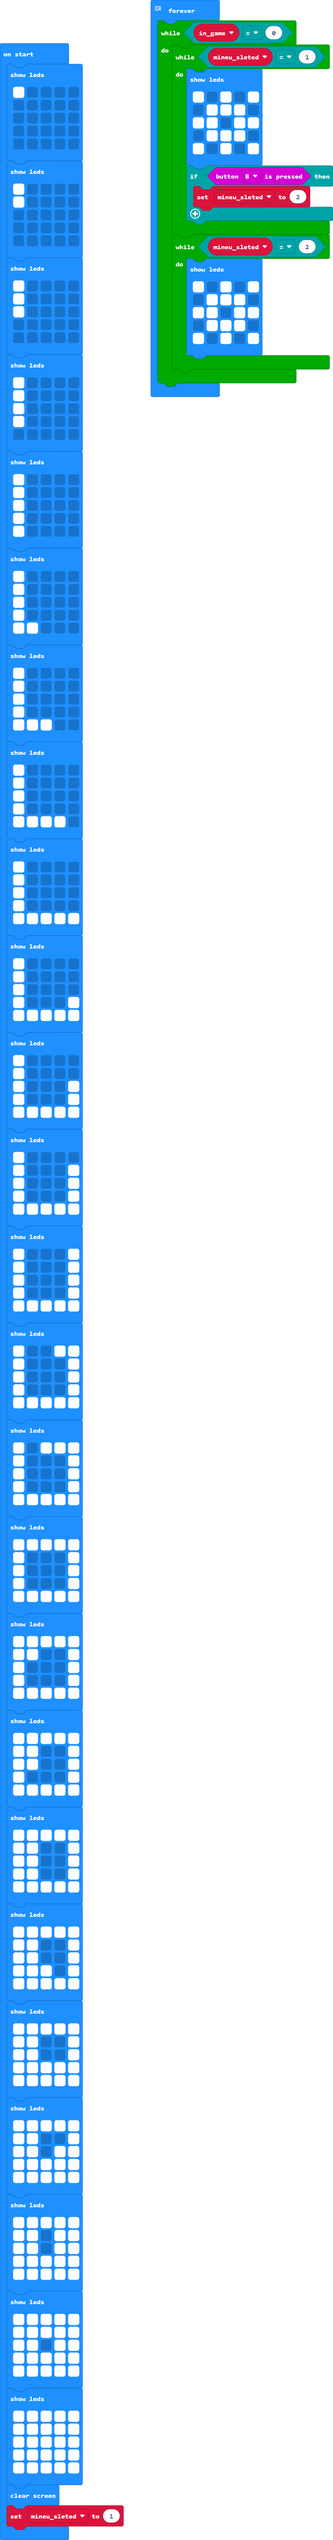
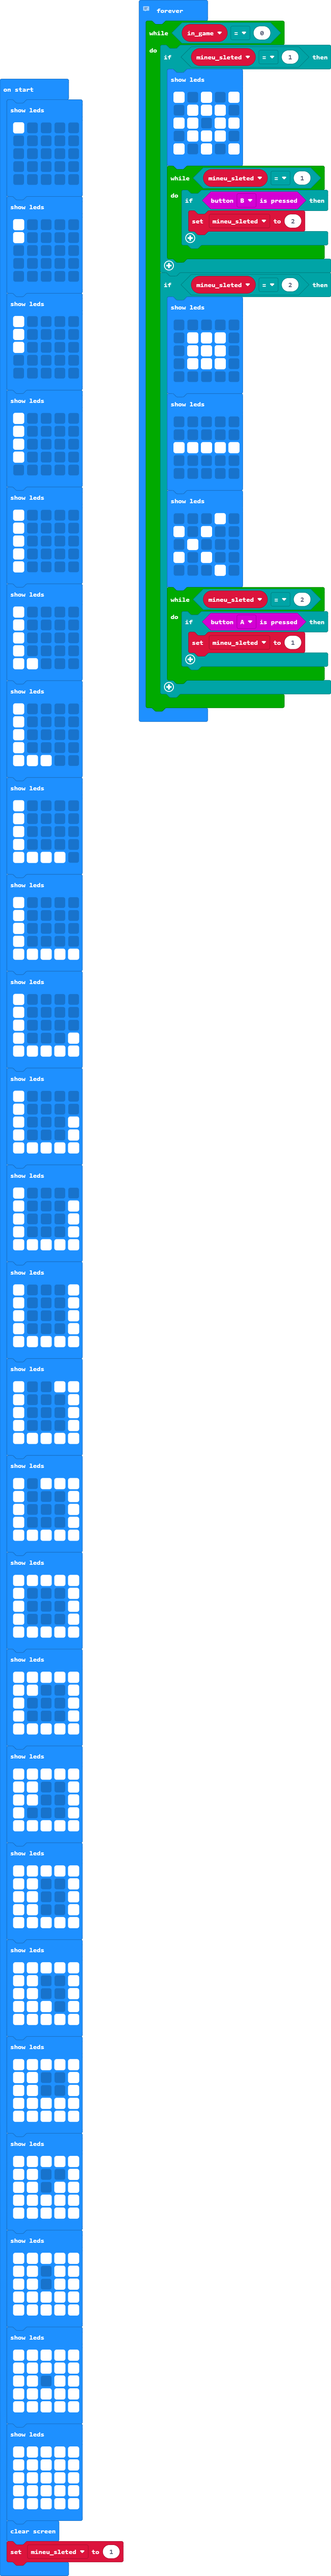
Update pxt.json, main.blocks, main.ts

Changed region(s): [[0.0, 0.0, 0.249, 1.0], [0.4047, 0.0, 1.0, 0.2806]]

diff --git a/main.ts b/main.ts
@@ -180,7 +180,7 @@ let mineu_sleted = 1
 basic.forever(function () {
     let in_game = 0
     while (in_game == 0) {
-        while (mineu_sleted == 1) {
+        if (mineu_sleted == 1) {
             basic.showLeds(`
                 # . # . #
                 . # # # .
@@ -188,18 +188,39 @@ basic.forever(function () {
                 . # # # .
                 # . # . #
                 `)
-            if (input.buttonIsPressed(Button.B)) {
-                mineu_sleted = 2
+            while (mineu_sleted == 1) {
+                if (input.buttonIsPressed(Button.B)) {
+                    mineu_sleted = 2
+                }
             }
         }
-        while (mineu_sleted == 2) {
+        if (mineu_sleted == 2) {
             basic.showLeds(`
-                # . # . #
+                . . . . .
                 . # # # .
-                # # . # #
                 . # # # .
-                # . # . #
+                . # # # .
+                . . . . .
                 `)
+            basic.showLeds(`
+                . . . . .
+                . . . . .
+                # # # # #
+                . . . . .
+                . . . . .
+                `)
+            basic.showLeds(`
+                . . . # .
+                # . # . .
+                . # . . .
+                # . # . .
+                . . . # .
+                `)
+            while (mineu_sleted == 2) {
+                if (input.buttonIsPressed(Button.A)) {
+                    mineu_sleted = 1
+                }
+            }
         }
     }
 })
